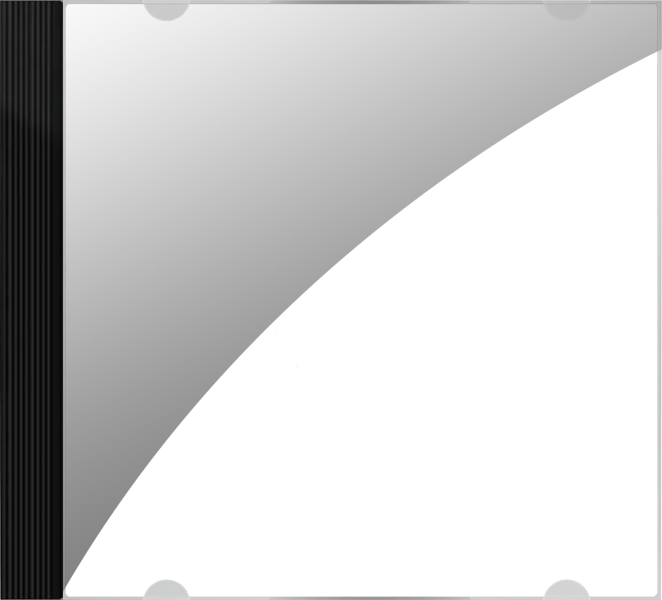
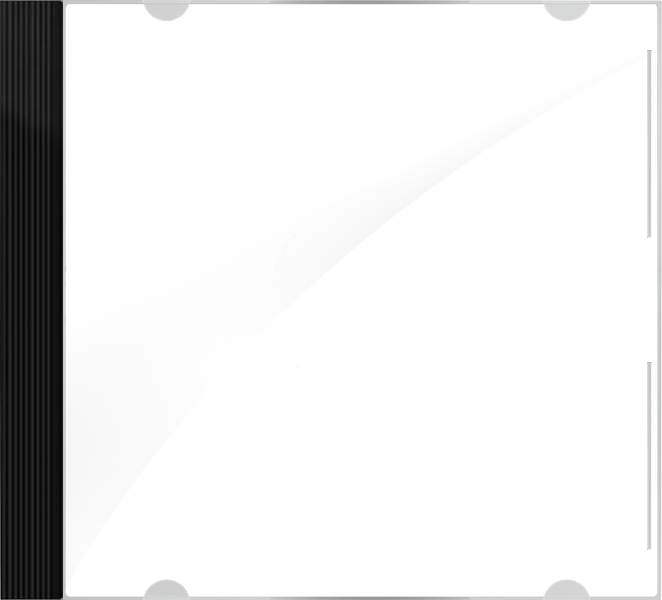
10/09/24 - Rev 5
-Worked on the layout of the album review template
-Learned a lot about arranging objects in CSS

diff --git a/pages/CDC/cdc.css b/pages/CDC/cdc.css
@@ -1,19 +1,22 @@
 body {
-    padding-top: 100px;
     overflow-x: hidden;
     overflow-y: scroll;
-    margin-top: 150px;
+    margin-top: 100px;
     background-image: url('/assets/site/mygoditsfullofstars.gif');
     background-color: #000000;
     color:white;
   }
 
-  .content {
+.header{
+  z-index: -100;
+}
+
+.content {
     position: relative; /* Keeps #space1 positioned relative to this container */
     min-height: 50vh;  /* Ensures the container takes up the full viewport height */
-    max-width: 50vw;    /* Limits the width to 50% of the viewport */
+    max-width: 1080px;    /* Limits the width to 50% of the viewport */
     margin: 0 auto;     /* Centers the content horizontally */
-    padding: 20px;
+    padding: 00px;
 }
 
 .footer{
@@ -22,29 +25,71 @@ body {
     bottom:0;
 }
 
-.cdshowcase{
-    display:flex;
-    height: 300px;
+.intro{
+  display:flex;
+  margin: 0 auto;
+  justify-content: center;
+  height: 40vw;
+  background-image: url('/assets/site/badassteroid.png'); /* Set the asteroid as the background */
+  background-size: contain; /* Make sure the asteroid covers the entire div */
+  background-position: center; /* Center the asteroid background */
+  background-repeat: no-repeat; /* Avoid tiling the image */
 }
 
-#cdcase{
-    position:absolute;
+.albumart {
+  display: flex;
+  justify-content: center; /* Center the album art horizontally */
+  align-items: center; /* Center the album art vertically */
+  position: relative;
+  margin-top: 7.5cqw;
+  margin-left:28cqw;
+  z-index: 2; /* Ensure it's above the asteroid background */
 }
 
-.cdart{
-    z-index: -1;
+.cdshowcase {
+  position: relative; /* Establish a relative positioning context */
+  width:fit-content;
+  height: 17.5vw;
+  aspect-ratio: 662/600;
+  max-width: 662px;
+  max-height: 600px;
+}
+
+.cdshowcase img {
+  position:relative;
+  max-height: 662px;
+  height: 100%;
+  width: 100%;
+  z-index: 2; 
+}
+
+.cdart {
+  position: absolute;
+  top: 0; /* Align the top of the CD art with the top of the case */
+  right: 0; /* Align the CD art to the right of the case */
+  z-index: 1; /* Place the CD art behind the case */
+  height: 100%;
+  width: 100%;
+}
+
+.cdart img{
+  height: 100%;
+  width: 100%;
 }
 
   #space5{
     position:absolute;
     top:0;
     right:0;
+    width: 35vw;
+    z-index: -5;
   }
 
   #space1{
     position:absolute;
     bottom:0;
     left:0;
+    z-index: -5;
   }
 
   #space3{
@@ -52,6 +97,7 @@ body {
     top:100;
     left:30;
     height: 20vh;
+    z-index: -5;
   }
 
   #space4{
@@ -59,11 +105,12 @@ body {
     top:10;
     left:180;
     height: 25vh;
+    z-index: -5;
   }
 
   #spacecd{
     position:absolute;
-    height: 20vh;
+    height: 30vh;
     top: 10;
     right:0;
   }

diff --git a/pages/CDC/template.html b/pages/CDC/template.html
@@ -3,7 +3,7 @@
     <meta name="viewport" content="width=device-width, initial-scale=1.0">
     <title>The CD Chronicles</title>
     <base href="https://admiralmoo.github.io/michaelscybersite/">
-    <!--<base href="http://127.0.0.1:5500/>-->
+    <!--<base href="http://127.0.0.1:5500/">-->
     <link rel="icon" type="image/x-icon" href="/assets/site/favicon.ico">
     <link rel="stylesheet" type="text/css" href="/pages/cdc/cdc.css"/>
     <link rel="preload" href="/assets/ui/button_down.jpg" as="image">
@@ -11,6 +11,7 @@
 </head>
 
 <body>
+
     <div class="header">
         <img id="space5" src="/assets/images/space5.png">
         <img id="space4" src="/assets/images/space4.png">
@@ -19,10 +20,12 @@
     </div>
 
     <div class="Intro">
-        <div class="cdshowcase">
-            <img id="cdcase" src="/assets/site/cdcase.png">
-            <div class="cdart">
-                <img src="/assets/albumart/nine inch nails - broken.jpg">
+        <div class="albumart">
+            <div class="cdshowcase">
+                <img src="/assets/site/cdcase.png">
+                <div class="cdart">
+                    <img src="/assets/albumart/nine inch nails - broken.jpg">
+                </div>
             </div>
         </div>
     </div>
